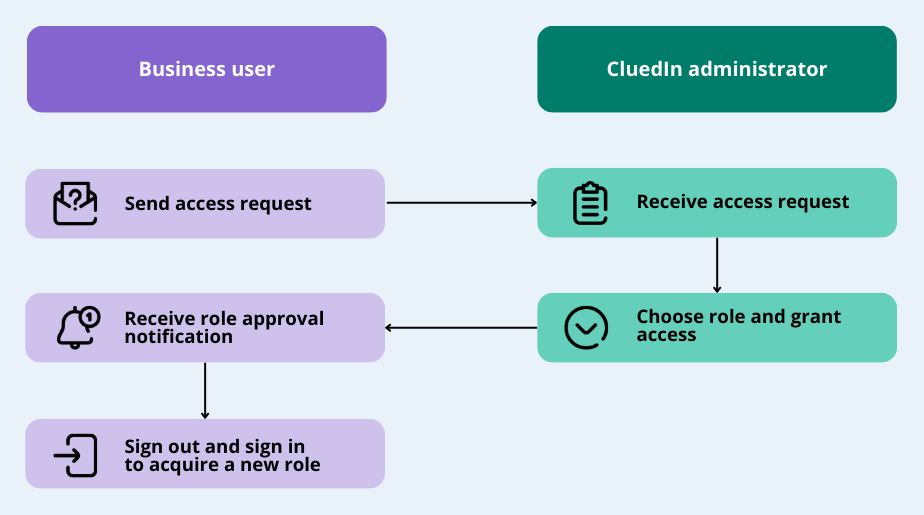
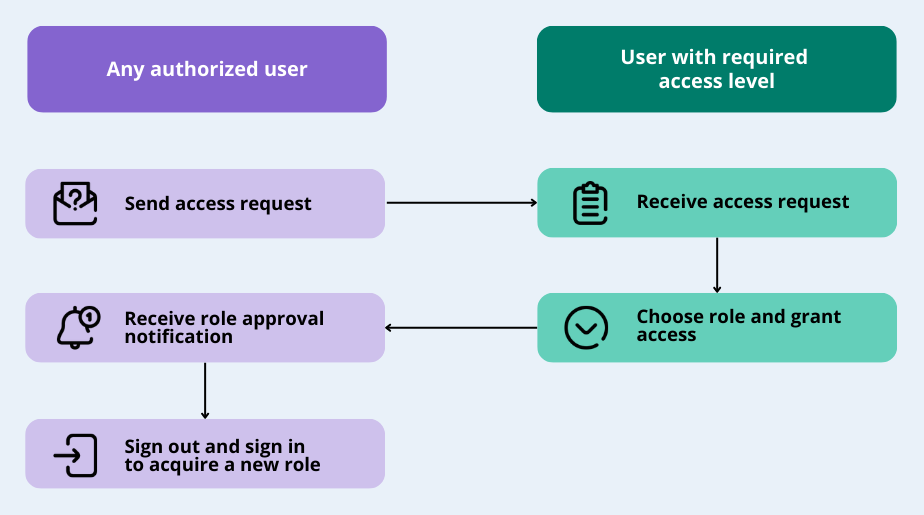
Replaced diagrams in Assign Roles

Changed region(s): [[0.6364, 0.0932, 0.9091, 0.1864], [0.1212, 0.1243, 0.3333, 0.1553]]

diff --git a/docs/030-administration/030-assign-roles.md b/docs/030-administration/030-assign-roles.md
@@ -14,7 +14,12 @@ tags: ["administration", "roles"]
 
 In this article, you will learn how to assign roles to users so that they are authorized to perform operations in CluedIn.
 
-_**This article is intended for CluedIn administrators.**_
+**_This article is intended for users with the OrganizationAdmin role or users with the following claim access levels._**
+
+| Section | Claim | Access level |
+|--|--|--|
+| Admin | Users | at least Consulted |
+| Admin | Roles | at least Consulted |
 
 You can assign roles to users in the following cases:
 
@@ -89,6 +94,8 @@ If you want to review the users who have been already added to the role and add 
 ## Process role requests
 
 When the user requests access to a specific section or module, you'll receive a new role request notification.
+
+**Note:** You will receive a role request notification from the user only if you added that user to CluedIn. If someone else added the user, then that person will receive the role request notification.
 
 ![role-request-2.png](../../assets/images/administration/roles/role-request-2.png)
 

diff --git a/docs/030-administration/020-roles.md b/docs/030-administration/020-roles.md
@@ -10,7 +10,7 @@ tags: ["administration", "roles"]
 
 In this article, you will learn about claims and access levels, which are the main concepts that define roles.
 
-_**This article is intended for users with the following claim access level.**_
+**_This article is intended for users with the OrganizationAdmin role or users with the following claim access level._**
 
 | Section | Claim | Access level |
 |--|--|--|
